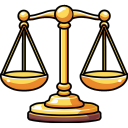
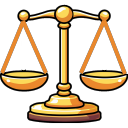
Improvements

Changed region(s): [[0.5938, 0.1562, 1.0, 0.5938], [0.0, 0.1562, 0.375, 0.5938]]

diff --git a/src/components/buildings/market_card.vue b/src/components/buildings/market_card.vue
@@ -1,7 +1,7 @@
 <script setup>
 import {inject} from 'vue'
 import BaseCard from '@/components/buildings/base_card.vue'
-import {IMG_OTHER_COIN} from '@/js/engine/assets.js'
+import {IMG_OTHER_BALANCE} from '@/js/engine/assets.js'
 import {playTap} from '@/js/engine/audio.js'
 import {t} from '@/js/i18n/localized.js'
 
@@ -26,7 +26,7 @@ const openMarketModal = inject('openMarketModal')
 <template>
   <BaseCard :building-key="buildingKey" :img="img" :building="building">
     <button class="btn-gold card-modal-btn tooltip" :data-tooltip="t('market.title')" @click="playTap(); openMarketModal()">
-      <img class="card-modal-btn-icon" :src="IMG_OTHER_COIN" :alt="t('market.title')">
+      <img class="card-modal-btn-icon" :src="IMG_OTHER_BALANCE" :alt="t('market.title')">
     </button>
   </BaseCard>
 </template>

diff --git a/src/js/engine/assets.js b/src/js/engine/assets.js
@@ -50,6 +50,7 @@ export const IMG_UNIT_WORKER = '/img/units/worker.png'
 export const IMG_ICO_FAVICON = '/img/ico/favicon.ico'
 
 // Other
+export const IMG_OTHER_BALANCE = '/img/other/balance.png'
 export const IMG_OTHER_BUILD = '/img/other/build.png'
 export const IMG_OTHER_COIN = '/img/other/coin.png'
 export const IMG_OTHER_IDLE = '/img/other/idle.png'
